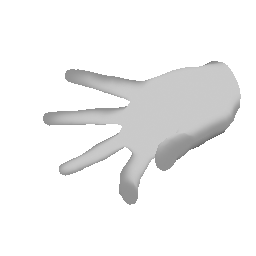
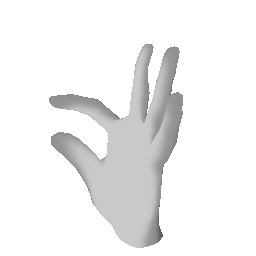
debug

Changed region(s): [[0.1562, 0.1562, 0.9375, 0.9688]]

diff --git a/Render_HTML.py b/Render_HTML.py
@@ -413,14 +413,14 @@ if __name__ == '__main__':
         pose_param = torch.unsqueeze(gen_rand_params(45, 3), 0)  # .cuda()
         shape_param = torch.unsqueeze(gen_rand_params(10, 3), 0)  # .cuda()
         tex_param = torch.unsqueeze(gen_rand_params(101, 3), 0)  # .cuda()
-        # while True:
-        #     angle = np.random.choice(angle_range, 1)[0]
-        #     axis = np.random.choice(["X", "Y", "Z"], 1)[0]
-        #     # if not (axis == "Z" and (((angle >= -90) and (angle <= -45)) or ((angle >= 200) and (angle <= 270)))):
-        #     # if not axis == "Z" or not axis == "Y":
-        #     if not axis == "Y":
-        #         break
-        axis = "X"  # yy: select X if we only wanna rotate around X axis
+        while True:
+            angle = np.random.choice(angle_range, 1)[0]
+            axis = np.random.choice(["X", "Y", "Z"], 1)[0]
+            # if not (axis == "Z" and (((angle >= -90) and (angle <= -45)) or ((angle >= 200) and (angle <= 270)))):
+            # if not axis == "Z" or not axis == "Y":
+            if not axis == "Z":
+                break
+        # axis = "X"  # yy: select X if we only wanna rotate around X axis
         angle = np.random.choice(angle_range, 1)[0]
         print(i, axis, angle)
         images_ori, images_edited_texture, image_cubes, vertices, new_tex_img, joints = \
